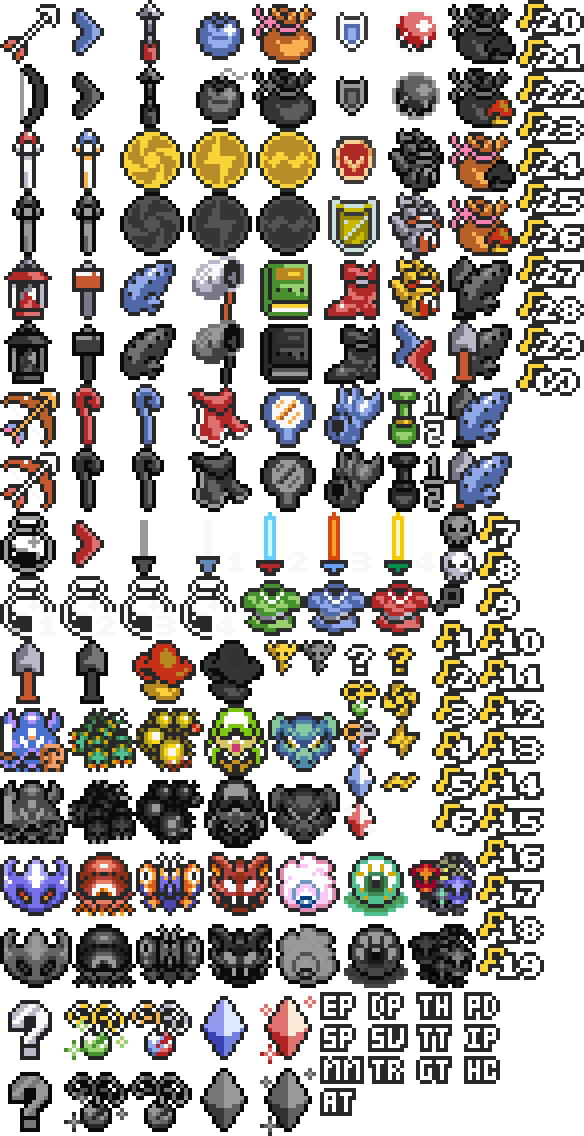
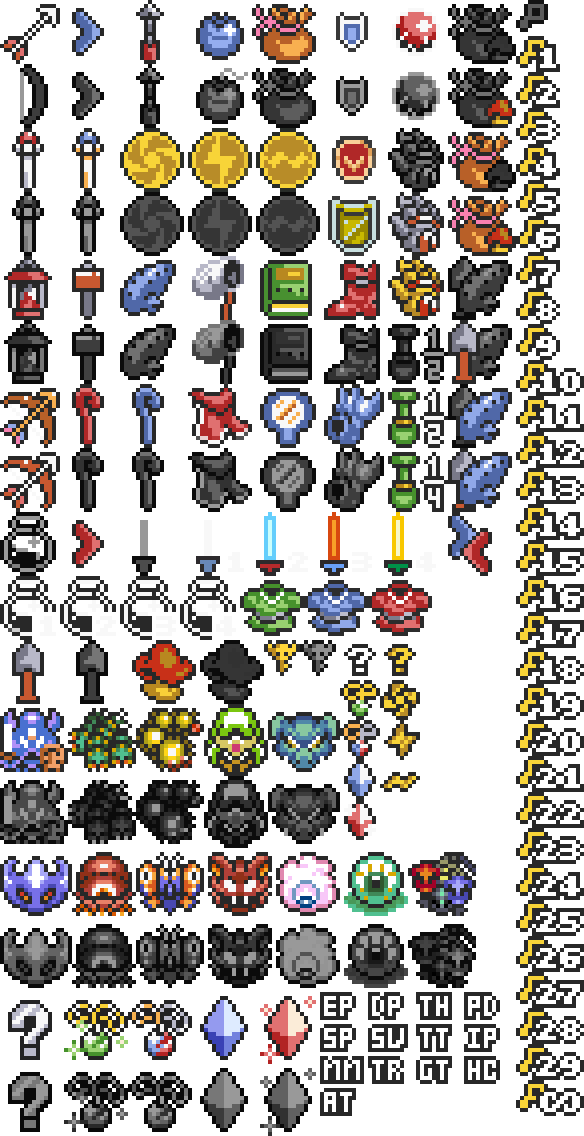
layout tweaks
added quarter-magic option, various small icon position changes, rearranged spritesheet image

Changed region(s): [[0.6473, 0.0, 1.0, 0.9859], [0.6473, 0.2773, 0.7705, 0.3389]]

diff --git a/style.css b/style.css
@@ -90,7 +90,7 @@ body {
 #boomerang.state0 { background-position:-60px -64px}
 #boomerang.state1 { background-position:-60px 0px}
 #boomerang.state2 { background-position:-60px -512px}
-#boomerang.state3 { background-position:-384px -320px}
+#boomerang.state3 { background-position:-440px -512px}
 
 #hookshot { left:120px; top:0px; width: 64px; height:64px;}
 #hookshot.state0 { background-position:-120px -64px }
@@ -202,12 +202,13 @@ body {
 #glove.state1 { background-position:-384px -192px}
 #glove.state2 { background-position:-384px -256px}
 
-#flippers { left:0px; top:192px; width:64px; height:64px; }
+#flippers { left:0px; top:196px; width:64px; height:64px; }
 #flippers.state0 { background-position:-320px -448px }
 #flippers.state1 { background-position:-320px -384px }
-#halfmagic { left:64px; top:192px; width:64px; height:64px; }
-#halfmagic.state0 { background-position:-384px -448px  }
+#halfmagic { left:64px; top:196px; width:64px; height:64px; }
+#halfmagic.state0 { background-position:-384px -320px  }
 #halfmagic.state1 { background-position:-384px -384px  }
+#halfmagic.state2 { background-position:-384px -448px  }
 
 
 
@@ -309,37 +310,37 @@ body {
 .medal.state3 {  background-position: -380px -760px; }
 
 .key {width:44px;height:36px;top:72px}
-.key.state0 {background-position:-432px -584px}
-.key.state1 {background-position:-432px -620px}
-.key.state2 {background-position:-432px -656px}
-.key.state3 {background-position:-432px -692px}
-.key.state4 {background-position:-432px -728px}
-.key.state5 {background-position:-432px -764px}
-.key.state6 {background-position:-432px -800px}
-.key.state7 {background-position:-476px -512px}
-.key.state8 {background-position:-476px -548px}
-.key.state9 {background-position:-476px -584px}
-.key.state10 {background-position:-476px -620px;width:68px;margin-left:-4px}
-.key.state11 {background-position:-476px -656px;width:68px;margin-left:-4px}
-.key.state12 {background-position:-476px -692px;width:68px;margin-left:-4px}
-.key.state13 {background-position:-476px -728px;width:68px;margin-left:-4px}
-.key.state14 {background-position:-476px -764px;width:68px;margin-left:-4px}
-.key.state15 {background-position:-476px -800px;width:68px;margin-left:-4px}
-.key.state16 {background-position:-476px -836px;width:68px;margin-left:-4px}
-.key.state17 {background-position:-476px -872px;width:68px;margin-left:-4px}
-.key.state18 {background-position:-476px -908px;width:68px;margin-left:-4px}
-.key.state19 {background-position:-476px -944px;width:68px;margin-left:-4px}
-.key.state20 {background-position:-516px  0px;width:68px;margin-left:-4px}
-.key.state21 {background-position:-516px -36px;width:68px;margin-left:-4px}
-.key.state22 {background-position:-516px -72px;width:68px;margin-left:-4px}
-.key.state23 {background-position:-516px -108px;width:68px;margin-left:-4px}
-.key.state24 {background-position:-516px -144px;width:68px;margin-left:-4px}
-.key.state25 {background-position:-516px -180px;width:68px;margin-left:-4px}
-.key.state26 {background-position:-516px -216px;width:68px;margin-left:-4px}
-.key.state27 {background-position:-516px -252px;width:68px;margin-left:-4px}
-.key.state28 {background-position:-516px -288px;width:68px;margin-left:-4px}
-.key.state29 {background-position:-516px -324px;width:68px;margin-left:-4px}
-.key.infinite {background-position:-516px -360px;width:68px;margin-left:-4px}
+.key.state0 {background-position:-516px -0px}
+.key.state1 {background-position:-516px -36px}
+.key.state2 {background-position:-516px -72px}
+.key.state3 {background-position:-516px -108px}
+.key.state4 {background-position:-516px -144px}
+.key.state5 {background-position:-516px -180px}
+.key.state6 {background-position:-516px -216px}
+.key.state7 {background-position:-516px -252px}
+.key.state8 {background-position:-516px -288px}
+.key.state9 {background-position:-516px -324px}
+.key.state10 {background-position:-516px -360px;width:68px;margin-left:-4px}
+.key.state11 {background-position:-516px -396px;width:68px;margin-left:-4px}
+.key.state12 {background-position:-516px -432px;width:68px;margin-left:-4px}
+.key.state13 {background-position:-516px -468px;width:68px;margin-left:-4px}
+.key.state14 {background-position:-516px -504px;width:68px;margin-left:-4px}
+.key.state15 {background-position:-516px -540px;width:68px;margin-left:-4px}
+.key.state16 {background-position:-516px -576px;width:68px;margin-left:-4px}
+.key.state17 {background-position:-516px -612px;width:68px;margin-left:-4px}
+.key.state18 {background-position:-516px -648px;width:68px;margin-left:-4px}
+.key.state19 {background-position:-516px -684px;width:68px;margin-left:-4px}
+.key.state20 {background-position:-516px  -720px;width:68px;margin-left:-4px}
+.key.state21 {background-position:-516px -756px;width:68px;margin-left:-4px}
+.key.state22 {background-position:-516px -792px;width:68px;margin-left:-4px}
+.key.state23 {background-position:-516px -828px;width:68px;margin-left:-4px}
+.key.state24 {background-position:-516px -864px;width:68px;margin-left:-4px}
+.key.state25 {background-position:-516px -900px;width:68px;margin-left:-4px}
+.key.state26 {background-position:-516px -936px;width:68px;margin-left:-4px}
+.key.state27 {background-position:-516px -972px;width:68px;margin-left:-4px}
+.key.state28 {background-position:-516px -1008px;width:68px;margin-left:-4px}
+.key.state29 {background-position:-516px -1044px;width:68px;margin-left:-4px}
+.key.infinite {background-position:-516px -1080px;width:68px;margin-left:-4px}
 #key11 { left:36px }
 #key12 { left:-4px }
 

diff --git a/logic.js b/logic.js
@@ -1200,41 +1200,38 @@ logic = {
                     0;
 
                 min = entry && logic.DMlight() ?
-                    (somaria && hammer && !firerod && boots && !hookshot && canClimb ? 1 : 0) +
-                    (somaria && hammer && !firerod && !boots && hookshot && canClimb ? 1 : 0) +
-                    (somaria && hammer && firerod && hookshot && canClimb ? 4 : 0) +
-                    (!somaria && hammer && boots && !hookshot && canClimb ? 1 : 0) +
-                    (somaria && hammer && !firerod && hookshot ? 5 : 0) +
-                    (somaria && !hammer && !firerod && canClimb ? 1 : 0) +
-                    (!somaria && !hammer && boots && canClimb ? 1 : 0) +
-                    (somaria && hammer && !boots && hookshot ? 1 : 0) +
-                    (!somaria && hammer && hookshot ? 5 : 0) +
-                    (somaria && firerod ? 9 : 0) +
-                    (somaria && boots ? 1 : 0) +
-                    (hammer && boots ? 1 : 0) +
-                    (hammer && hookshot ? 9 : 0) :
+                    (canClimb && somaria && !firerod && hammer && !hookshot && !boots ? 1 : 0) +
+                    (canClimb && somaria && firerod && hammer && hookshot && boots ? 4 : 0) +
+                    (canClimb && !somaria && !hammer && hookshot && boots ? 1 : 0) +
+                    (somaria && !firerod && hammer && !hookshot && boots ? 1 : 0) +
+                    (somaria && firerod && hammer && !hookshot ? 4 : 0) +
+                    (somaria && !firerod && hammer && hookshot ? 1 : 0) +
+                    (canClimb && !somaria && !hookshot && boots ? 1 : 0) +
+                    (canClimb && somaria && !firerod && !hammer ? 1 : 0) +
+                    (somaria && hammer && !hookshot && boots ? 1 : 0) +
+                    (somaria && firerod && !hammer ? 4 : 0) +
+                    (boots && (somaria || hammer) ? 1 : 0) +
+                    (hammer && hookshot ? 14 : 0) +
+                    (somaria && firerod ? 5 : 0) :
                     0;
 
                 max = entry ?
-                    2 + //hope room
-                    (somaria ? 1 : 0) + //tile room
+                    2 +
+                    (canClimb && somaria && firerod && hammer && hookshot && !boots ? 1 : 0) +
+                    (canClimb && !somaria && firerod && hammer && hookshot ? 2 : 0) +
+                    (canClimb && somaria && firerod && hammer && !hookshot ? 2 : 0) +
+                    (somaria && firerod && hammer && !hookshot ? 3 : 0) +
+                    (canClimb && !firerod && hammer && hookshot ? 2 : 0) +
+                    (canClimb && somaria && firerod && !hammer ? 2 : 0) +
+                    (canClimb && !hammer && hookshot ? 1 : 0) +
+                    (canClimb && somaria && !firerod ? 1 : 0) +
+                    (somaria && firerod && !hammer ? 3 : 0) +
+                    (hammer && !hookshot && boots ? 1 : 0) +
+                    (!canClimb && somaria ? 1 : 0) +
+                    (hammer && hookshot ? 14 : 0) +
+                    (somaria && firerod ? 5 : 0) +
                     (canClimb ? 2 : 0) +
-                    (canClimb && hookshot ? 1 : 0) +
-                    (canClimb && somaria && hammer && !hookshot && boots ? 2 : 0) +
-                    (canClimb && somaria && firerod ? 1 : 0) +
-                    (canClimb && somaria && !firerod && hammer && hookshot ? 2 : 0) +
-                    (canClimb && !somaria && hammer && hookshot ? 1 : 0) +
-                    (!canClimb && somaria && hammer && hookshot ? 1 : 0) +
-                    (!canClimb && somaria && !firerod && hammer && !hookshot && boots ? 2 : 0) +
-                    (!canClimb && somaria && firerod && hammer && hookshot && boots ? 1 : 0) +
-                    (somaria && firerod ? 8 : 0) +
-                    (somaria && !firerod && hammer && hookshot ? 4 : 0) +
-                    (somaria && !firerod && hammer && hookshot && boots ? 1 : 0) +
-                    (!somaria && hammer && hookshot ? 5 : 0) +
-                    (!somaria && hammer && boots ? 1 : 0) +
-                    (!somaria && hammer && !hookshot && boots ? 1 : 0) +
-                    (hammer && hookshot ? 9 : 0) +
-                    (!hammer && boots ? 1 : 0) :
+                    (boots ? 1 : 0) :
                     0;
 
             } else {    // REGULAR LOGIC
@@ -1273,7 +1270,7 @@ logic = {
                     0;
 
             }
-            console.log(min+" "+max);
+            console.log(min + " " + max);
             return { boss: boss, max: max, min: min }
         },
         11: function () { //Agahnim's Tower

diff --git a/layout.js b/layout.js
@@ -481,7 +481,7 @@ layout = {
 				{ elem: ".stuff8", props: { x: 356, y: 260 } },
 				{ elem: ".stuff9", props: { x: 424, y: 260 } },
 				{ elem: ".stuff10", props: { x: -5000, y: 4 } },
-				{ elem: ".stuff11", props: { x: 496, y: 240 } },
+				{ elem: ".stuff11", props: { x: 496, y: 260 } },
 			],
 			1: [//keysanity
 				{ elem: "#items", props: { width: 636, height: 416 } },
@@ -512,9 +512,9 @@ layout = {
 				{ elem: "#totalCover", props: { width: 620, height: 400 }, borderless: { width: 520, height: 450 } },
 				{ elem: "#dungeons", borderless:{x:"-=32",y:"-=16"} },
 				{ elem: "#dungeonChest11,#keyAny", props: { display: 'inline' } },
-				{ elem: ".stuff0", props: { x: 496, y: 4 } },
-				{ elem: ".stuff1", props: { x: 496, y: 76 } },
-				{ elem: ".stuff2", props: { x: 496, y: 148 } },
+				{ elem: ".stuff0", props: { x: 496, y: 44 } },
+				{ elem: ".stuff1", props: { x: 496, y: 116 } },
+				{ elem: ".stuff2", props: { x: 496, y: 188 } },
 				{ elem: ".stuff3", props: { x: 16, y: 260 } },
 				{ elem: ".stuff4", props: { x: 84, y: 260 } },
 				{ elem: ".stuff5", props: { x: 152, y: 260 } },
@@ -524,7 +524,7 @@ layout = {
 				{ elem: ".stuff9", props: { x: 424, y: 260 } },
 				{ elem: ".stuff10", props: { x: -5000, y: 4 } },
 				{ elem: ".stuff11", props: { x: 496, y: 260 } },
-				{ elem: "#keyAny", props: { x: 512, y: 148, left: 0, top: 72 } }
+				{ elem: "#keyAny", props: { x: 512, y: -64, left: 0, top: 72 } }
 			],
 		},
 	},

diff --git a/trackables.js b/trackables.js
@@ -31,7 +31,7 @@ items = {				//a list of everything we're tracking-- includes all inventory item
 	boots: { val: 0, max: 1 },
 	glove: { val: 0, max: 2 },
 	flippers: { val: 0, max: 1 },
-	halfmagic: { val: 0, max: 1 },
+	halfmagic: { val: 0, max: 2 },
 	boss0: { val: 0, max: 1 }, //EP
 	boss1: { val: 0, max: 1 }, //DP
 	boss2: { val: 0, max: 1 }, //ToH
